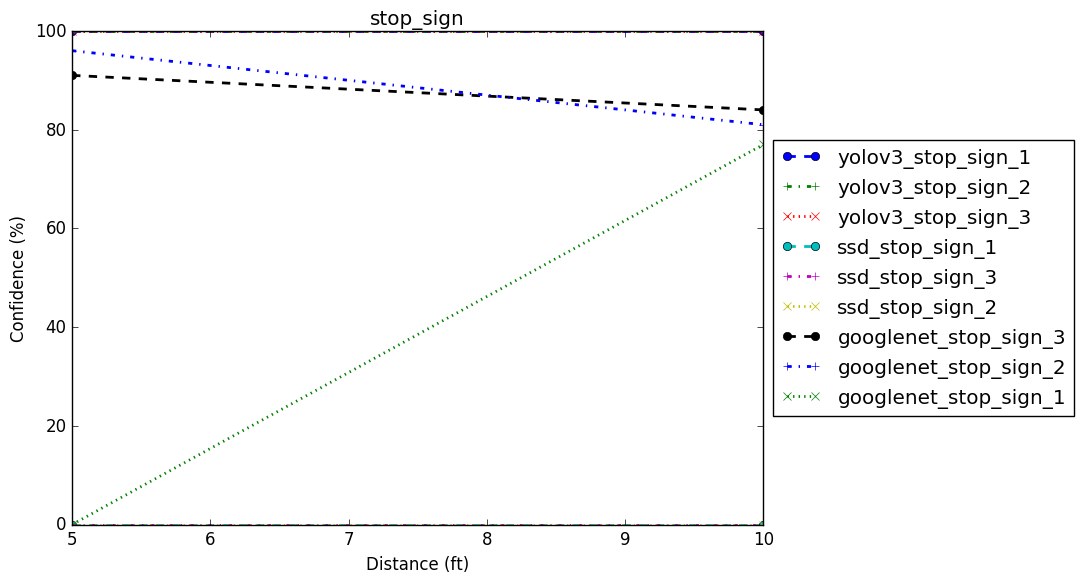
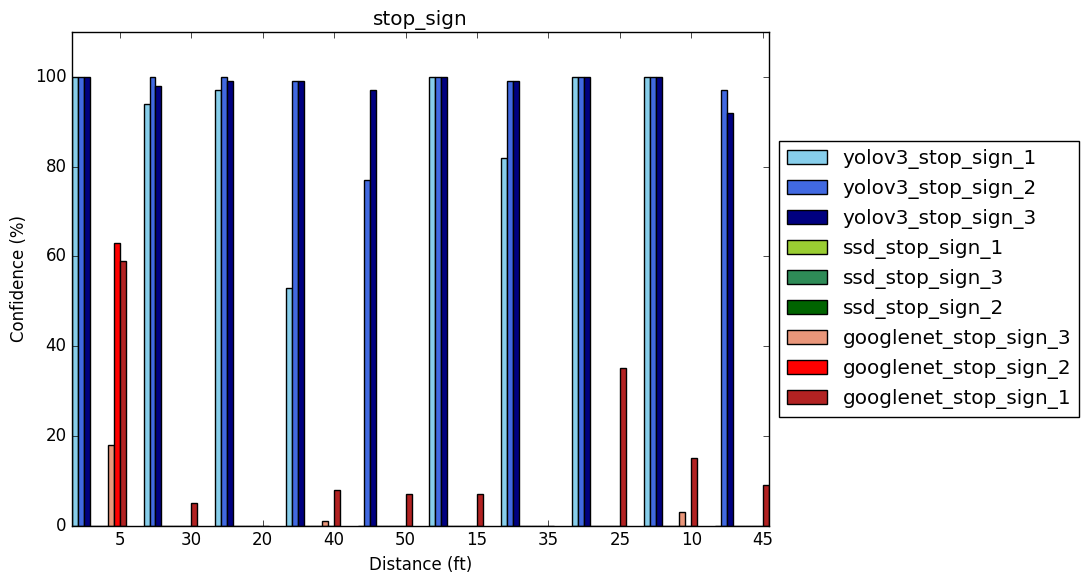
Plots the data into bar graphs

Changed region(s): [[0.0, 0.0617, 1.0, 0.9571], [0.0304, 0.0, 0.7002, 0.0926], [0.3349, 0.9571, 0.4262, 0.988]]

diff --git a/process_results_orig.py b/process_results_orig.py
@@ -3,20 +3,24 @@ import matplotlib.pyplot as plt
 import numpy as np
 #automated reading of all files and subfiles in a directory
 import os
-#import subprocess
-#import glob
-#import re
+import subprocess
+import glob
+import re
 import sys
 # used for debugging
 import json
-from plot_multi_bar import plot_multibar
-
+# auto format the plots to keep the label from running out of the border
+from matplotlib import rcParams
+rcParams.update({'figure.autolayout': True})
 
 rootdir = os.path.dirname(os.path.abspath(__file__))
 # TODO Turn into input argument
 results_path = "./results/"
 graph_out_path = "./results/graphs"
-threshold = 0
+threshold = 70
+
+markers = ["o","+","x","o","+","x","o","+","x"]
+lines   = ['--', '-.', ':','--', '-.', ':','--', '-.', ':']
 
 # dictionary type that allows for dynamic subkey assignment
 class Vividict(dict):
@@ -37,10 +41,10 @@ def read_csv(file_path, confidence_threshold, removed_text):
         image_results = csv.reader(csvfile, delimiter=',', quotechar='|')
 
         for row in image_results:
+
             #condition the text file
-            rm_text = row[0]
-            image_name0 = rm_text.split(removed_text)
-            image_name1 = image_name0[-1].replace('.jpg','')
+            image_name0 = row [0]    .replace(removed_text,'')
+            image_name1 = image_name0.replace('.jpg'     ,'')
             #split the image characteristics into lists
             image_name_list = image_name1.split("/")
             #get the individual words from the image type to compare to detection labels
@@ -51,9 +55,6 @@ def read_csv(file_path, confidence_threshold, removed_text):
             found_list.append(image_name_list[0])
             # combine image name and image number
             found_list.append(image_name_list[0] + "_" + image_name_list[1]);
-            #found_list.append(int(image_name_list[2]))
-            #for i in range(3 ,len(image_name_list)):
-            #    found_list.append(image_name_list[i])
             for i in range(2 ,len(image_name_list)):
                 found_list.append(image_name_list[i])
             # Add the detection fillers
@@ -109,6 +110,7 @@ def organize_data(formatted_detection, network_title):
             # check if the current image type is found
             if image_list_top[i] in element[0]: 
                 # put found image type in appropriate grouping
+                #image_list_grouped[i].append(element[1:])
 
                 #create new 2d list for new subgroup, [sublabel,[sublist2_0]]
                 sub_list = []
@@ -140,7 +142,8 @@ def organize_data(formatted_detection, network_title):
                     # Image already exists, append data only (not image name) to the appropriate sublist 
                     # [sublabel_n,[sublist2_0],...,[sublist2_n]]
                     else:
-                        image_list_grouped[i][sub_element_ind][1].append(sub_list2)    
+                        image_list_grouped[i][sub_element_ind][1].append(sub_list2)
+    
 
     # sort the sublists alphabetically
     for im_ind in range(len(image_list_grouped)):
@@ -164,7 +167,7 @@ def convert_to_dictionary(formatted_list):
 
             for single_result in temp_sublist:
                 run_label = single_result[0]
-                distance_list   = []
+                distance_list  = []
                 confidence_list = []
                 reported_detections = []
                 for x_y in single_result[1]:
@@ -177,46 +180,38 @@ def convert_to_dictionary(formatted_list):
                 image_types[detection_type[0]][run_label]["reported_detections"] = reported_detections
     return image_types
 
-##############################################################################
-# 
-##############################################################################
-def subcategorybar(X, vals, width=0.8):
-    n = len(vals)
-    _X = np.arange(len(X))
-    for i in range(n):
-        plt.bar(_X - width/2. + i/float(n)*width, vals[i], 
-                width=width/float(n), align="edge")   
-    plt.xticks(_X, X)
-
 
 ##############################################################################
 # Loop throught the detections and plot them
 ##############################################################################
 def plot_the_data(results_dictionary):
-    # Loop through the image types (ex: Cars)
-    for key, value in results_dictionary.iteritems():
+    # check python version
+    if sys.version_info[0] < 3:
+        # Loop through the image types (ex: Cars)
+        for key, value in results_dictionary.iteritems():
+            plot_cnt = 0
+            # Loop through the image subtypes and plot each result (ex: Cars_1, Cars_2, etc)
+            for subkey, subvalue in value.iteritems():
+                x_value = subvalue["distances"]
+                y_value = subvalue["confidences"]
+                plt.plot(subvalue["distances"], subvalue["confidences"],label=subkey, linewidth=2, linestyle=lines[plot_cnt], marker=markers[plot_cnt] )
+                plot_cnt += 1
 
-        print "Mapping graph: " + key
-        y_lists = []
-        sub_bar_labels = []
+            #format the plot
+            plt.xlabel('Distance (ft)')
+            plt.ylabel('Confidence (%)')
+            plt.title(key)
+            plt.legend(loc='center left', bbox_to_anchor=(1, 0.5))
+            # Save graph
+            if not os.path.exists(graph_out_path):
+                os.makedirs(graph_out_path)
+            result_location = graph_out_path + "/" + key + ".png"
+            print "Outputting " + result_location
+            plt.savefig(result_location, bbox_inches = "tight")
+            plt.clf()
+    else:
+        raise Exception("Must be using Python 2")
 
-        # Loop through the image subtypes and formulate the data into the lists plot_multibar expects (ex: Cars_1, Cars_2, etc)
-        for subkey, subvalue in value.iteritems():
-            x_markers    = subvalue["distances"]
-            y_lists.append(subvalue["confidences"])
-            sub_bar_labels.append(subkey)
-
-        x_label = 'Distance (ft)'
-        y_label = 'Confidence (%)'
-        title   = key
-        
-        # graph output location
-        if not os.path.exists(graph_out_path):
-            os.makedirs(graph_out_path)
-        graph_path = graph_out_path + "/" + key + ".png"
-
-        plot_multibar(y_lists, x_markers, sub_bar_labels, x_label=x_label, y_label=y_label, y_range=[0,110], title=title, graph_path=graph_path)
-        
 ##############################################################################
 #MAIN
 ##############################################################################
@@ -247,12 +242,6 @@ for csv_file in os.listdir(csv_file_path):
         master_list.append(single_network_data)
 
 master_dict = convert_to_dictionary(master_list)
-
-# Save the dictionary to a json file
-json_file_path = results_path + "results.json"
-with open(json_file_path, 'w') as file:
-     file.write(json.dumps(master_dict)) 
-print "JSON file output at " + json_file_path
 
 # Plot the data
 plot_the_data(master_dict)

diff --git a/plot_multi_bar.py b/plot_multi_bar.py
@@ -1,0 +1,72 @@
+import csv
+import matplotlib.pyplot as plt
+import numpy as np
+import sys
+# auto format the plots to keep the label from running out of the border
+from matplotlib import rcParams
+rcParams.update({'figure.autolayout': True})
+
+markers = ["o","+","x","o","+","x","o","+","x"]
+lines   = ['--', '-.', ':','--', '-.', ':','--', '-.', ':']
+#colors  = ["blue", "red", "green", "orange", "yellow", "gray", "black","lightgreen", "ivory" ,"rosybrown", "royalblue", "saddlebrown", "salmon"]
+colors  = ["skyblue", "royalblue", "navy", "yellowgreen", "seagreen", "darkgreen", "darksalmon", "red", "firebrick", "gainsboro", "darkgrey", "dimgrey", "salmon"]
+
+
+##############################################################################
+# Loop throught the detections and plot them
+##############################################################################
+def plot_multibar(y_lists, x_markers, sub_bar_labels, x_label="x_value", y_label="y_value", y_range=[0,0], title="Multi_bar_graph", graph_path="graph_out.png"):
+    # check python version
+    if sys.version_info[0] < 3:
+        plot_cnt = 0
+        fig = plt.figure()
+        ax = fig.add_subplot(111)
+
+        # Loop through the sub-bars to plot in the input list
+        for i in range(len(y_lists)):
+
+            sub_bars = y_lists[i] 
+
+            #format the subbar plot locations about the x-axis
+            indices = range(len(sub_bars))
+            #width_i = np.min(np.diff(indices))/3.
+            width = np.min(np.diff(indices))/float(len(sub_bars)+2)
+
+            #auto range width
+            #width = indices
+            #         iteration   Centers the bargraph (.5)      
+            width_i = (width*i) - .5
+            
+            ax.bar(indices+width_i,sub_bars,width,color=colors[plot_cnt],tick_label=x_markers, label=sub_bar_labels[i]) 
+ 
+            #check if out of line colors and loop back if so
+            if plot_cnt >=len(colors)-1:
+                plot_cnt = 0
+            else:
+                plot_cnt += 1
+       
+        #format the plot
+        if not y_range == [0,0]:
+            plt.ylim(y_range)
+        plt.xlabel(x_label)
+        plt.ylabel(y_label)
+        plt.title(title)
+        plt.legend(loc='center left', bbox_to_anchor=(1, 0.5))
+
+        # Save graph
+        print "Outputting " + graph_path
+        plt.savefig(graph_path, bbox_inches = "tight")
+        plt.clf()
+    else:
+        raise Exception("Must be using Python 2. I haven't made this work with Python 3 yet")
+
+##############################################################################
+#MAIN
+##############################################################################
+
+#function test lists
+#sblabels_test = [    "subbar1"        , "subbar2",  "subbar3"  ,   "subbar4" ,  "subbar5 "]
+#Y_lists_test  = [[2 ,   3 ,  4  , 5  ],[7,8,9,10],[15,16,17,18],[20,30,40,50],[55,60,65,70]]
+#x_label_test  = ["5", "10", "15","20"]
+
+#plot_multibar(Y_lists_test, x_label_test, sblabels_test, y_range=[-10,110])
